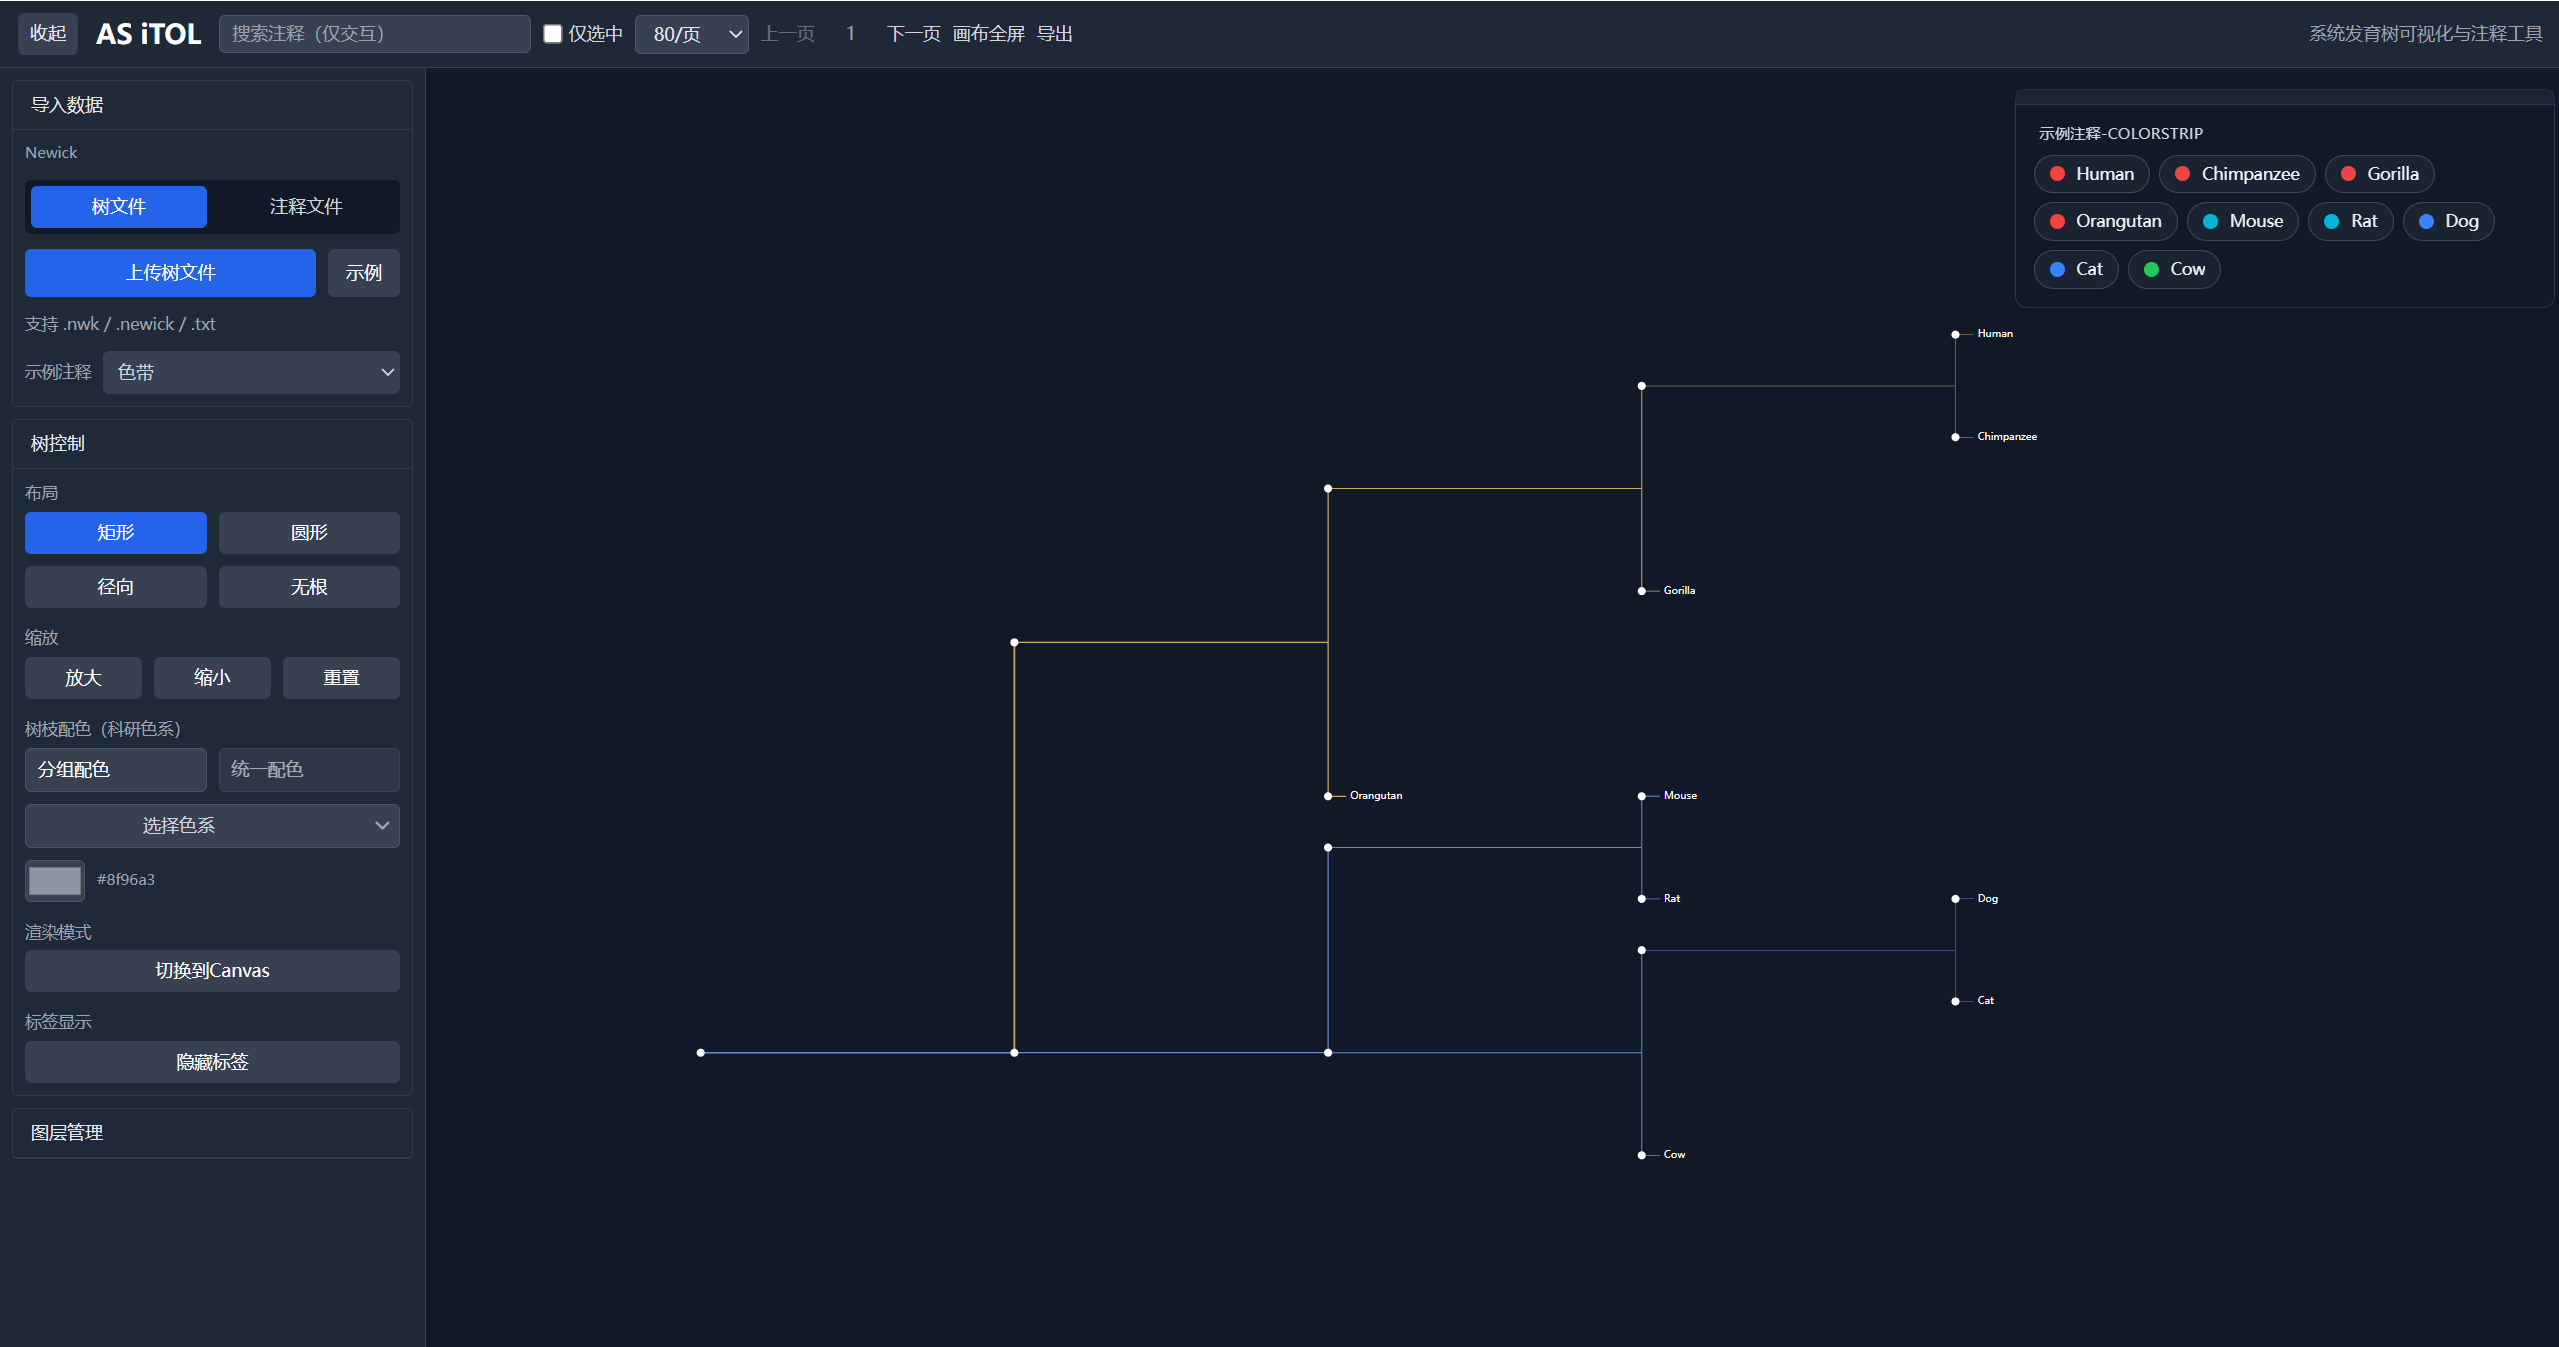
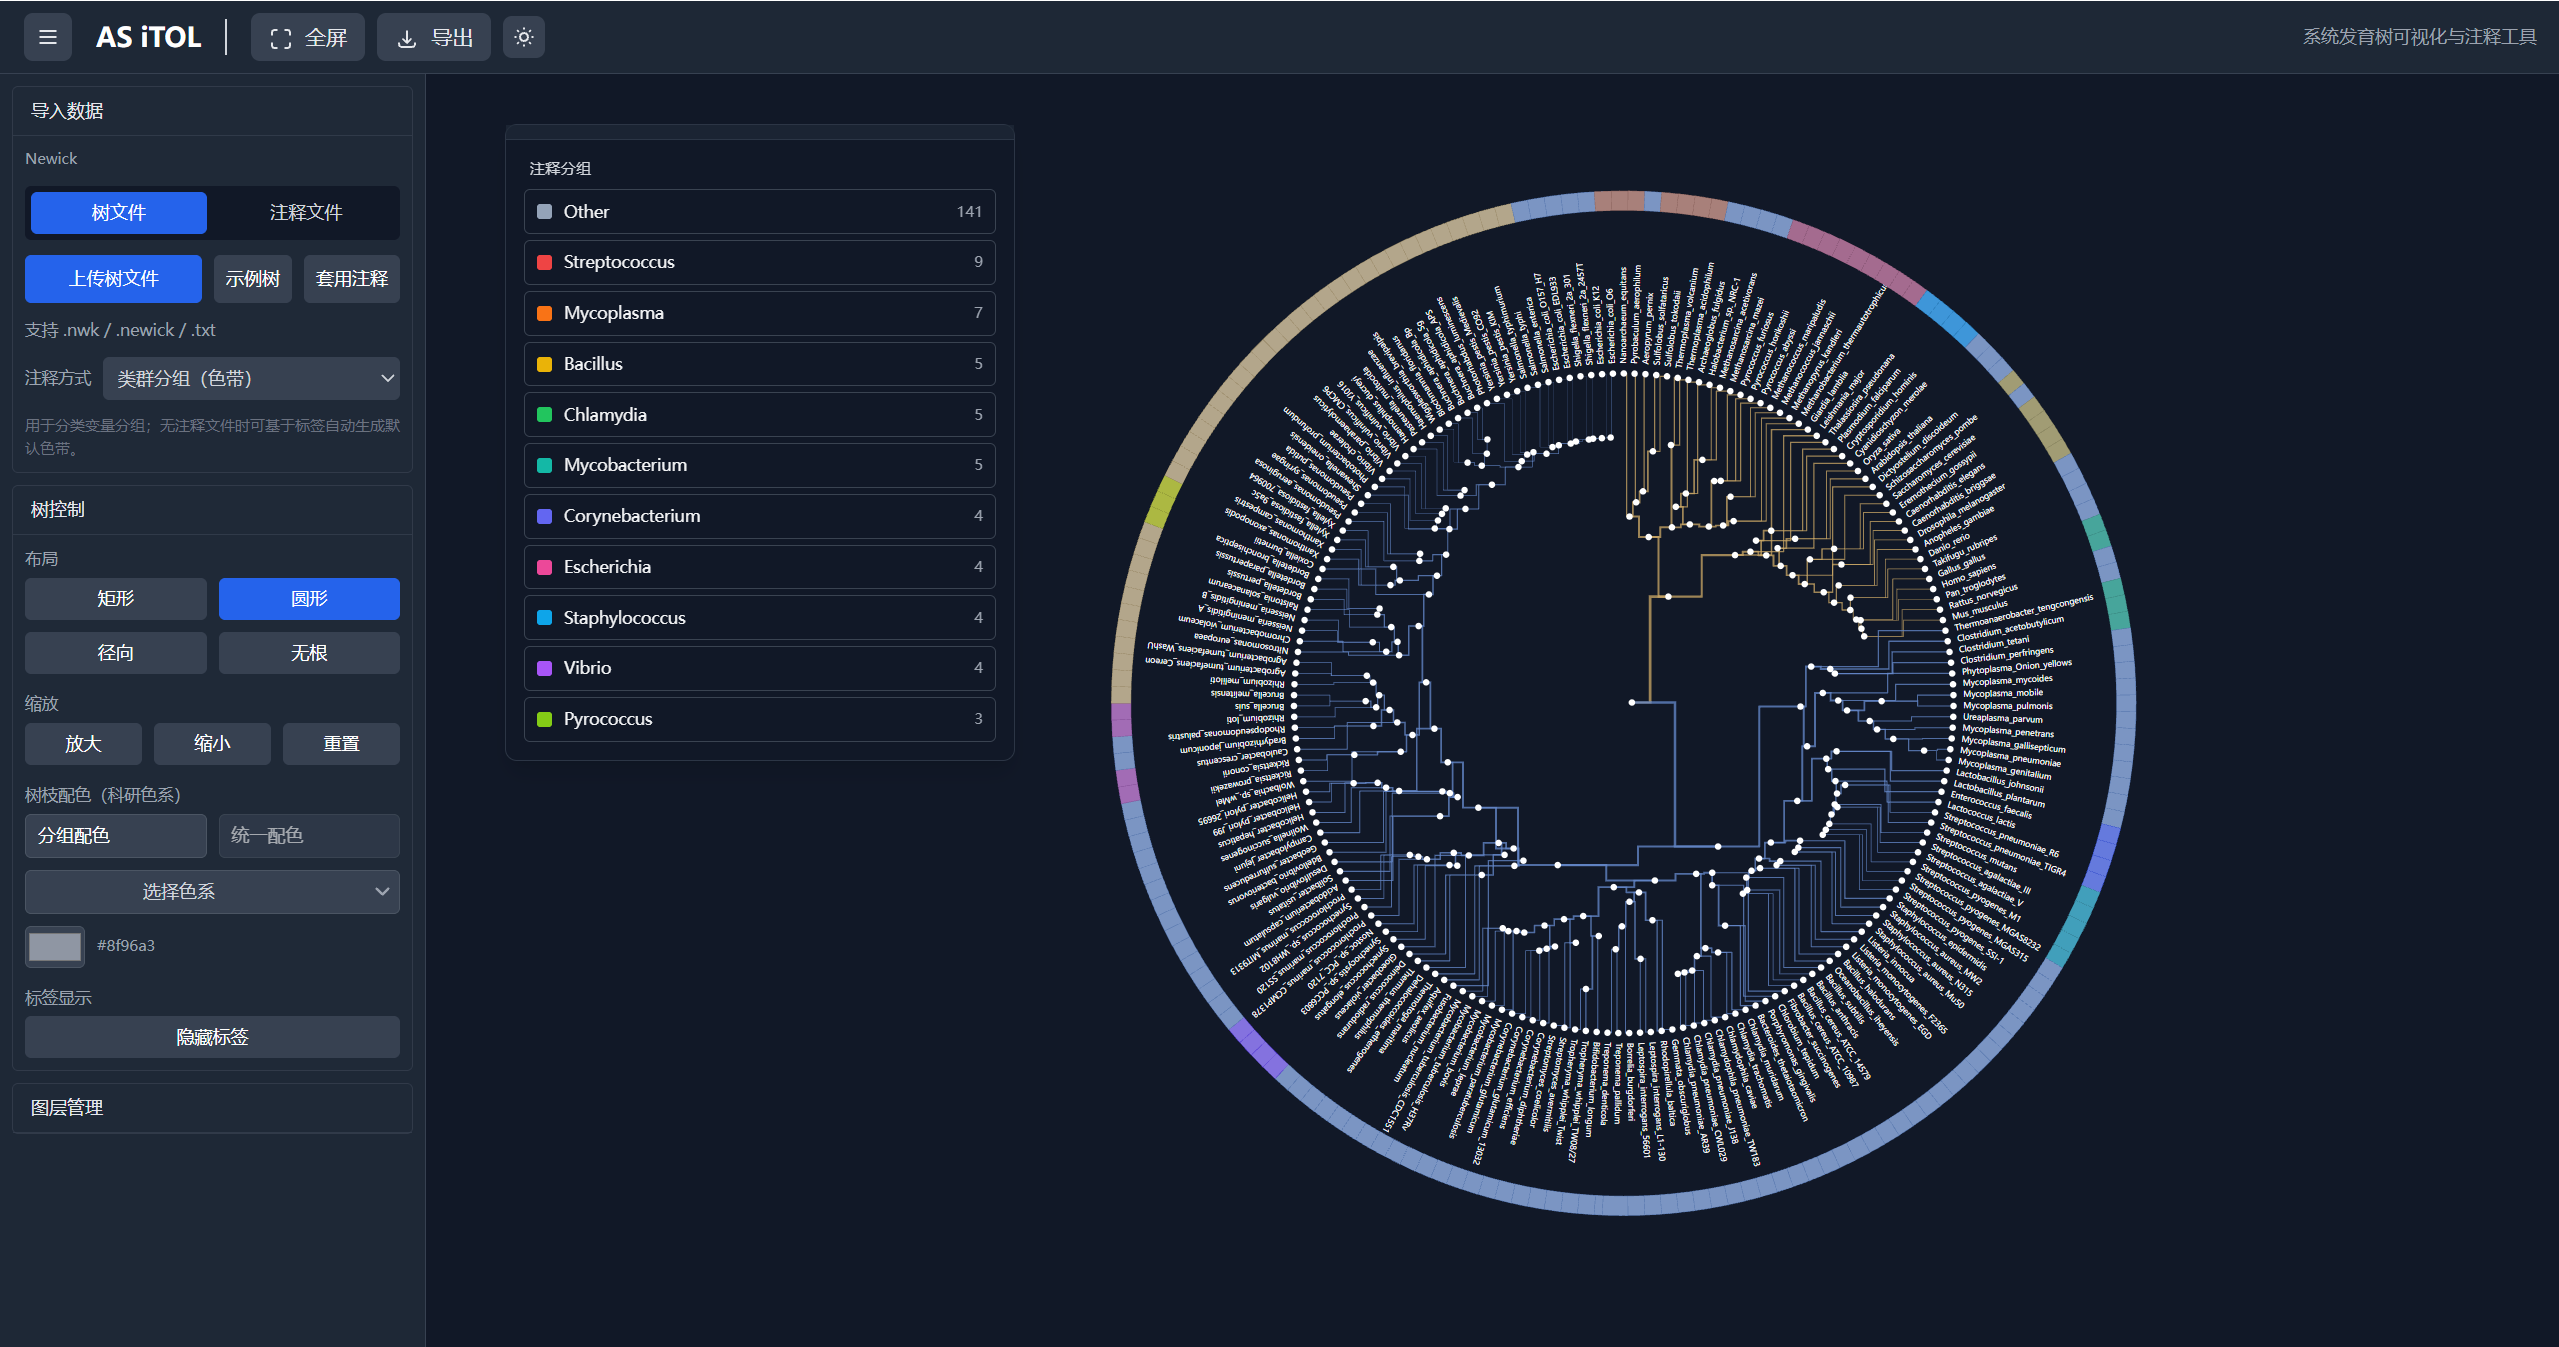
refactor(ui): 简化注释分组名称并优化页面头部布局
- 将默认注释名称统一改为"注释分组"以提高一致性
- 移除页面头部多余的注释搜索和分页控件
- 改进头部按钮样式和图标，增强视觉一致性

diff --git a/frontend/src/routes/+page.svelte b/frontend/src/routes/+page.svelte
@@ -35,31 +35,7 @@
     URL.revokeObjectURL(url);
   };
 
-  const handleAnnotationSearch = (event: Event) => {
-    const value = (event.currentTarget as HTMLInputElement).value;
-    uiStore.setSearchQuery(value);
-  };
 
-  const clearAnnotationSearch = () => {
-    uiStore.setSearchQuery('');
-  };
-
-  const handleAnnotationOnlySelected = (event: Event) => {
-    uiStore.setAnnotationOnlySelected((event.currentTarget as HTMLInputElement).checked);
-  };
-
-  const handleRowsPerPageChange = (event: Event) => {
-    const value = Number((event.currentTarget as HTMLSelectElement).value);
-    uiStore.setAnnotationRowsPerPage(value);
-  };
-
-  const prevAnnotationPage = () => {
-    uiStore.prevAnnotationPage();
-  };
-
-  const nextAnnotationPage = () => {
-    uiStore.nextAnnotationPage();
-  };
 
   const toggleSidebar = () => {
     sidebarCollapsed = !sidebarCollapsed;
@@ -84,72 +60,48 @@
 
 <div class={`h-screen flex flex-col min-h-0 ${$uiStore.theme === 'light' ? 'bg-slate-100 text-slate-900' : 'bg-gray-900 text-white'}`}>
   {#if !canvasFullscreen}
-    <header class={`border-b px-3 py-2 flex items-center justify-between gap-3 ${$uiStore.theme === 'light' ? 'bg-white/95 border-slate-200' : 'bg-gray-800/95 border-gray-700'}`}>
-      <div class="flex items-center gap-3 min-w-0">
+    <header class={`border-b px-4 py-2 flex items-center justify-between gap-4 ${$uiStore.theme === 'light' ? 'bg-white/95 border-slate-200 shadow-sm' : 'bg-gray-800/95 border-gray-700'}`}>
+      <div class="flex items-center gap-4 min-w-0">
         <button
-          class={`h-7 px-2 rounded text-xs whitespace-nowrap ${$uiStore.theme === 'light' ? 'bg-slate-200 hover:bg-slate-300 text-slate-700' : 'bg-gray-700 hover:bg-gray-600 text-gray-200'}` }
+          class={`h-8 w-8 rounded-md flex items-center justify-center ${$uiStore.theme === 'light' ? 'bg-slate-100 hover:bg-slate-200 text-slate-700' : 'bg-gray-700 hover:bg-gray-600 text-gray-200'}` }
           on:click={toggleSidebar}
           title={sidebarCollapsed ? '展开左侧栏' : '收起左侧栏'}
         >
-          {sidebarCollapsed ? '展开' : '收起'}
+          <svg xmlns="http://www.w3.org/2000/svg" class="h-4 w-4" fill="none" viewBox="0 0 24 24" stroke="currentColor">
+            <path stroke-linecap="round" stroke-linejoin="round" stroke-width={2} d="{sidebarCollapsed ? 'M12 4v16m8-8H4' : 'M4 6h16M4 12h16M4 18h16'}" />
+          </svg>
         </button>
         <h1 class={`text-lg font-bold whitespace-nowrap ${$uiStore.theme === 'light' ? 'text-slate-900' : 'text-white'}`}>AS iTOL</h1>
+        <div class="h-6 w-px bg-gray-300 dark:bg-gray-600"></div>
         <nav class="flex items-center gap-2 min-w-0">
-          <input
-            class={`w-52 text-xs border rounded px-2 py-1 ${$uiStore.theme === 'light' ? 'bg-white border-slate-300 text-slate-700 placeholder-slate-400' : 'bg-gray-700 border-gray-600 text-gray-200 placeholder-gray-400'}` }
-            type="text"
-            placeholder="搜索注释（仅交互）"
-            value={$uiStore.searchQuery}
-            on:input={handleAnnotationSearch}
-          />
-          {#if $uiStore.searchQuery}
-            <button class="text-xs text-gray-300 hover:text-white" on:click={clearAnnotationSearch}>
-              清空
-            </button>
-          {/if}
-
-          <label class="text-xs text-gray-300 flex items-center gap-1 whitespace-nowrap">
-            <input
-              type="checkbox"
-              checked={$uiStore.annotationOnlySelected}
-              on:change={handleAnnotationOnlySelected}
-            />
-            仅选中
-          </label>
-
-          <select
-            class={`text-xs border rounded px-2 py-1 ${$uiStore.theme === 'light' ? 'bg-white border-slate-300 text-slate-700' : 'bg-gray-700 border-gray-600 text-gray-200'}` }
-            value={$uiStore.annotationRowsPerPage}
-            on:change={handleRowsPerPageChange}
-          >
-            <option value={50}>50/页</option>
-            <option value={80}>80/页</option>
-            <option value={120}>120/页</option>
-            <option value={200}>200/页</option>
-          </select>
-
           <button
-            class="text-xs text-gray-300 hover:text-white disabled:opacity-40"
-            on:click={prevAnnotationPage}
-            disabled={$uiStore.annotationPage <= 1}
+            class={`px-3 py-1.5 rounded-md text-sm ${$uiStore.theme === 'light' ? 'bg-slate-100 hover:bg-slate-200 text-slate-700' : 'bg-gray-700 hover:bg-gray-600 text-gray-200'}`}
+            on:click={enterCanvasFullscreen}
+            title="画布全屏"
           >
-            上一页
+            <svg xmlns="http://www.w3.org/2000/svg" class="h-4 w-4 inline mr-1" fill="none" viewBox="0 0 24 24" stroke="currentColor">
+              <path stroke-linecap="round" stroke-linejoin="round" stroke-width={2} d="M8 3H5a2 2 0 00-2 2v3m18 0V5a2 2 0 00-2-2h-3m0 18h3a2 2 0 002-2v-3M3 16v3a2 2 0 002 2h3" />
+            </svg>
+            全屏
           </button>
-          <span class="text-xs text-gray-400 min-w-8 text-center">{$uiStore.annotationPage}</span>
-          <button class="text-xs text-gray-300 hover:text-white" on:click={nextAnnotationPage}>
-            下一页
-          </button>
-          <button class="text-xs text-gray-300 hover:text-white" on:click={enterCanvasFullscreen}>
-            画布全屏
-          </button>
-          <button class="text-xs text-gray-300 hover:text-white" on:click={openExportDialog}>
+          <button
+            class={`px-3 py-1.5 rounded-md text-sm ${$uiStore.theme === 'light' ? 'bg-slate-100 hover:bg-slate-200 text-slate-700' : 'bg-gray-700 hover:bg-gray-600 text-gray-200'}`}
+            on:click={openExportDialog}
+            title="导出树"
+          >
+            <svg xmlns="http://www.w3.org/2000/svg" class="h-4 w-4 inline mr-1" fill="none" viewBox="0 0 24 24" stroke="currentColor">
+              <path stroke-linecap="round" stroke-linejoin="round" stroke-width={2} d="M4 16v1a3 3 0 003 3h10a3 3 0 003-3v-1m-4-4l-4 4m0 0l-4-4m4 4V4" />
+            </svg>
             导出
           </button>
           <button
-            class={`text-xs ${$uiStore.theme === 'light' ? 'text-slate-600 hover:text-slate-900' : 'text-gray-300 hover:text-white'}`}
+            class={`p-1.5 rounded-md ${$uiStore.theme === 'light' ? 'bg-slate-100 hover:bg-slate-200 text-slate-700' : 'bg-gray-700 hover:bg-gray-600 text-gray-200'}`}
             on:click={() => uiStore.toggleTheme()}
+            title="切换主题"
           >
-            {$uiStore.theme === 'light' ? '暗色' : '亮色'}
+            <svg xmlns="http://www.w3.org/2000/svg" class="h-4 w-4" fill="none" viewBox="0 0 24 24" stroke="currentColor">
+              <path stroke-linecap="round" stroke-linejoin="round" stroke-width={2} d="{$uiStore.theme === 'light' ? 'M20.354 15.354A9 9 0 018.646 3.646 9.003 9.003 0 0012 21a9.003 9.003 0 008.354-5.646z' : 'M12 3v1m0 16v1m9-9h-1M4 12H3m15.364 6.364l-.707-.707M6.343 6.343l-.707-.707m12.728 0l-.707.707M6.343 17.657l-.707.707M16 12a4 4 0 11-8 0 4 4 0 018 0z'}" />
+            </svg>
           </button>
         </nav>
       </div>

diff --git a/frontend/src/components/ui/FileUpload.svelte b/frontend/src/components/ui/FileUpload.svelte
@@ -238,7 +238,7 @@
     if (type === 'HEATMAP') {
       return {
         id: AUTO_ANNOTATION_ID,
-        name: '默认注释-进化距离热图',
+        name: '注释分组',
         type,
         data: Object.fromEntries(
           leafProfiles.map(item => [item.name, { value: item.distance / maxDistance }])
@@ -258,7 +258,7 @@
     if (type === 'BARCHART') {
       return {
         id: AUTO_ANNOTATION_ID,
-        name: '默认注释-进化距离条形图',
+        name: '注释分组',
         type,
         data: Object.fromEntries(
           leafProfiles.map(item => [item.name, { value: Math.round((item.distance / maxDistance) * 100) }])
@@ -277,7 +277,7 @@
 
     return {
       id: AUTO_ANNOTATION_ID,
-      name: '注释分组色带',
+      name: '注释分组',
       type: 'COLORSTRIP',
       data: Object.fromEntries(
         leafProfiles.map(item => {
